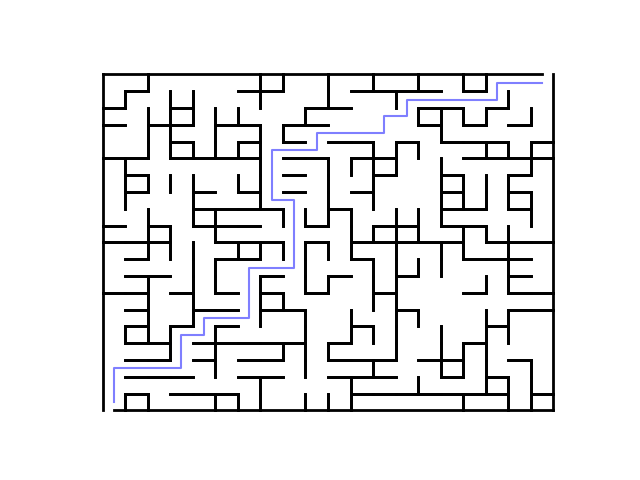
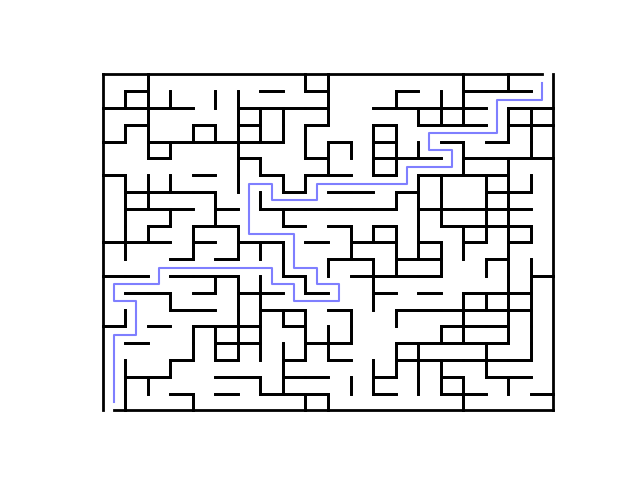
opengl friendly lines

Changed region(s): [[0.1562, 0.1562, 0.875, 0.8438], [0.625, 0.8125, 0.6875, 0.8438], [0.8438, 0.5, 0.875, 0.5312]]

diff --git a/MazeGenerator/maze_solver_particles.py b/MazeGenerator/maze_solver_particles.py
@@ -1,0 +1,47 @@
+# Periodic boundaries with surfaces
+
+import math
+import smoldyn
+
+
+def get_axis(line):
+    x0, y0, x1, y1 = line
+    theta = math.atan2(y1 - y0, x1 - x0)
+    if math.isclose(theta, 0.0):
+        return '+y'
+    if math.isclose(theta, math.pi):
+        return '-y'
+    if math.isclose(theta, math.pi/2.0):
+        return '+x'
+    return '-x'
+
+
+def add_maze(s, mazefile):
+    panels = []
+    with open(mazefile, "r") as f:
+        for i, l in enumerate(f.read().strip().split("\n")):
+            line = [10 * (1.5 + float(x)) for x in l.split()]
+            axis = get_axis(line)
+            x0, y0, x1, y1 = line
+            r = s.addRectangle(
+                corner=[x0, y0],
+                dimensions=[max((x1 - x0), (y1 - y0))],
+                axis=axis,
+                name=f"r{i}",
+            )
+            panels.append(r)
+    return panels
+
+
+s = smoldyn.Simulation(low=[0, 0], high=[200, 200])
+A = s.addSpecies("A", difc=2, color="blue")
+A.addToSolution(1000, pos=[10, 10])
+
+panels = add_maze(s, "_maze.txt")
+maze = s.addSurface("maze", panels=panels)
+maze.setAction("front", [A], "reflect")
+maze.setAction("back", [A], "reflect")
+maze.setStyle("both", thickness=1)
+
+s.addGraphics("opengl", iter=10)
+s.run(100, dt=0.01)

diff --git a/MazeGenerator/maze.py b/MazeGenerator/maze.py
@@ -42,7 +42,7 @@ def gen_seed_graph(m: int, n: int, is_perfect: bool = False):
     g = nx.Graph(shape=(m, n))
     nodes = []
     for i, j in itertools.product(range(m), range(n)):
-        g.add_node((i, j), pos=(i + 1, j + 1))
+        g.add_node((i, j), pos=(i, j))
         nodes.append((i, j))
 
     source, target = (0, 0), (m - 1, n - 1)
@@ -83,11 +83,11 @@ def _to_maze(g):
     m, n = nrow - 1, ncol - 1
     r = 0.5
     lines = [
-        ((m + r, 0 - r), (0, 0 - r)),  # entry notch
-        ((m + r, n + r), (m + r, 0 - r)),
-        ((0 - r, m + r), (m, n + r)),  # exit notch
         ((0 - r, 0 - r), (0 - r, m + r)),
-    ]
+        ((0 - r, m + r), (n , m+r)),  # exit notch
+        ((n+r,0-r), (n + r, m + r)),
+        ((0, 0 - r), (n + r, 0 - r))  # entry notch
+        ]
     for a in g.nodes():
         bs = _possible_neighbours(a, g.graph["shape"])
         cs = list(g.neighbors(a))
@@ -98,8 +98,7 @@ def _to_maze(g):
 
 
 def create_maze(
-    shape: T.Tuple[int, int] = (10, 10), is_perfect: bool = False, hardness: int
-    = 1
+    shape: T.Tuple[int, int] = (10, 10), is_perfect: bool = False, hardness: int = 1
 ):
     """Create maze of given shape."""
     g = gen_seed_graph(*shape, is_perfect)
